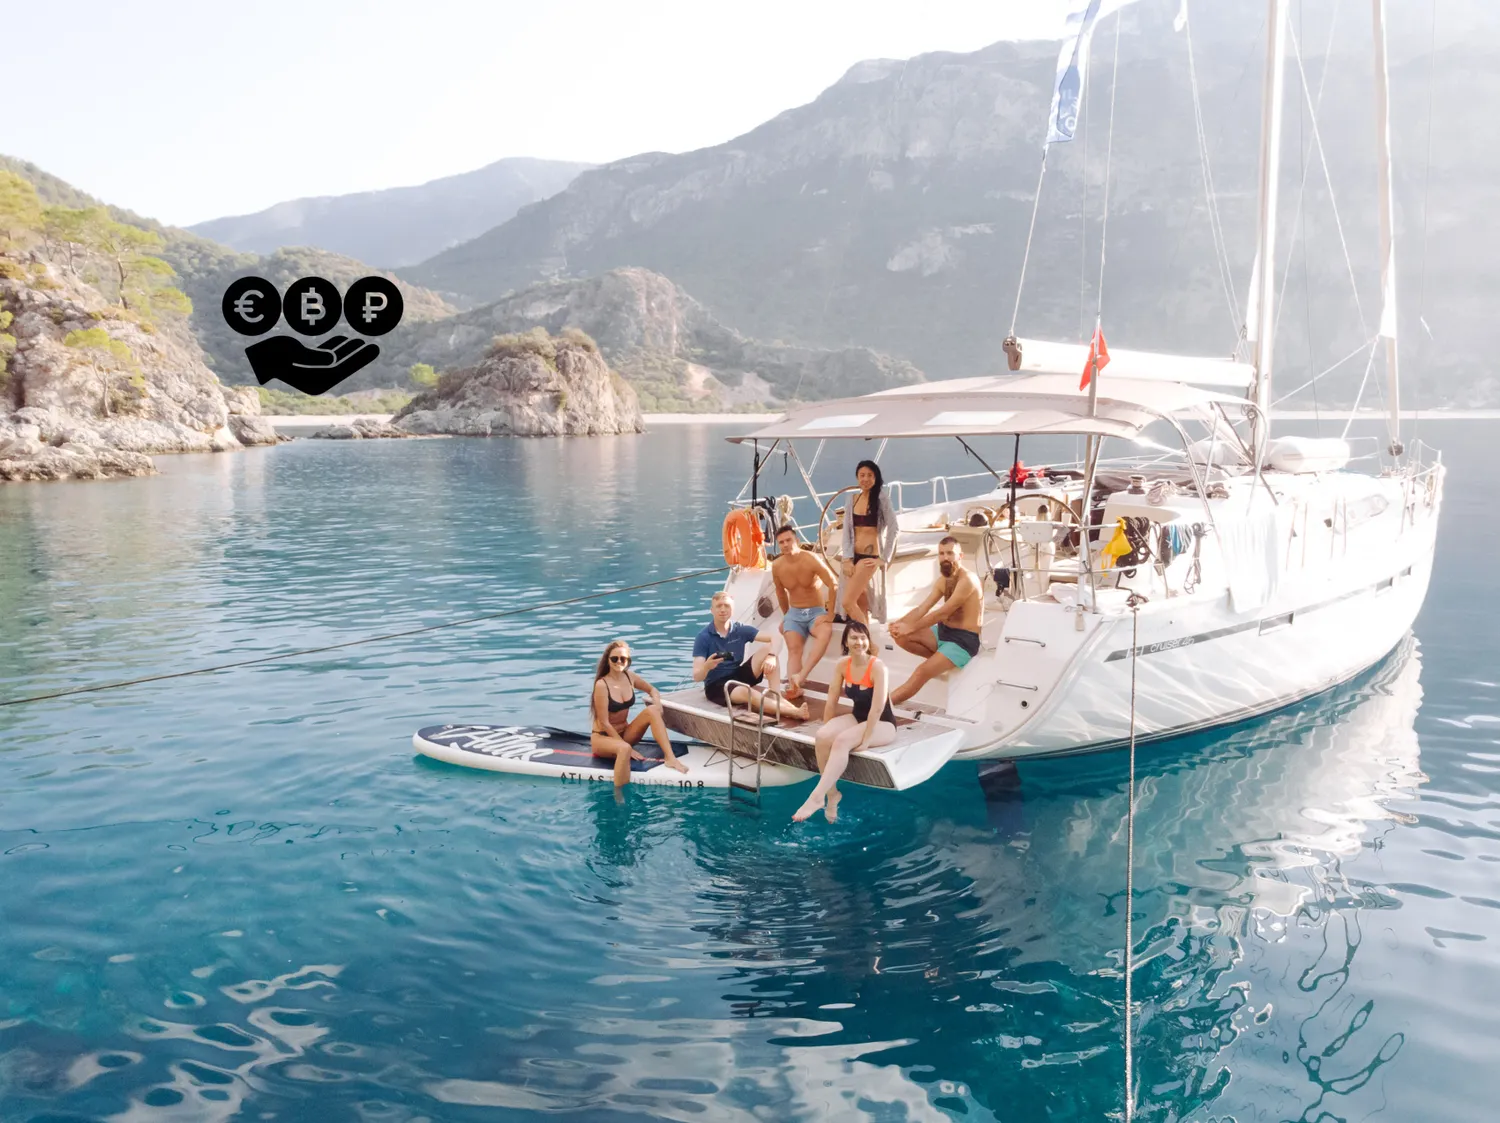
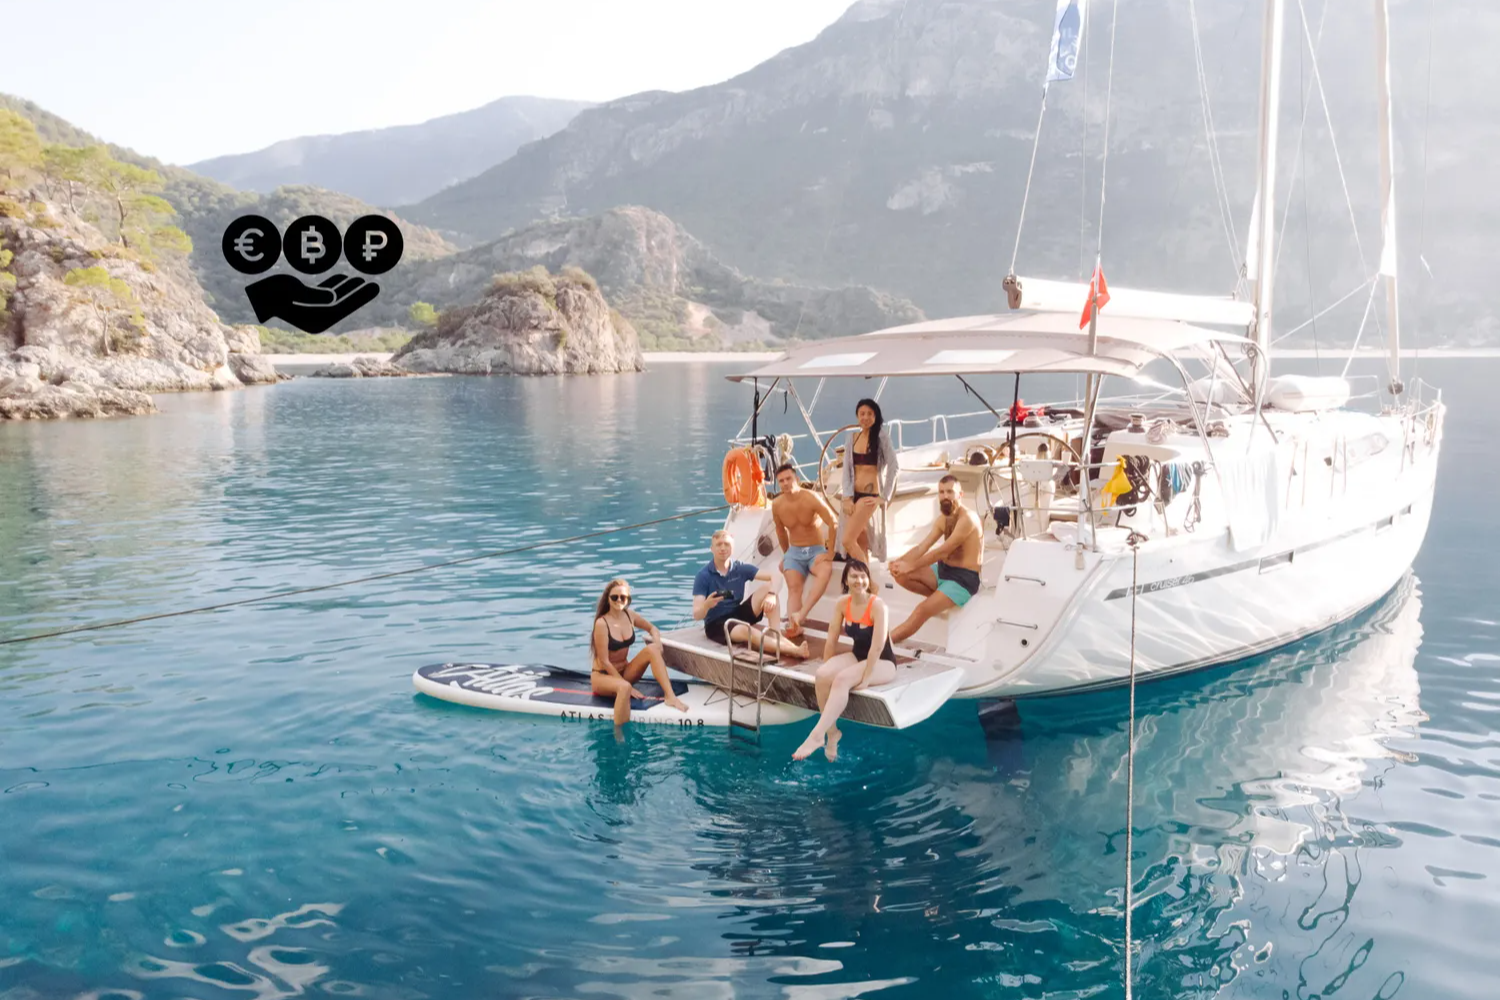
update

diff --git a/src/pages/Item/Item.jsx b/src/pages/Item/Item.jsx
@@ -55,12 +55,12 @@ export default function Item() {
           <h2 className="">{item[0].title}</h2>
 
           <div className="row my-3">
-            <div className="col-md-8">
+            <div className="col-md-6">
               <div className="div-item-img rounded">
-                <img className="item-img" src={item[0].img} alt="item-img" />
+                <img className="item-img img-fluid" src={item[0].img} alt="item-img" />
               </div>
             </div>
-            <div className="col-md-4 bg-light rounded d-flex flex-column justify-content-center align-items-center">
+            <div className="col-md-3 bg-light rounded d-flex flex-column text-center justify-content-center align-items-center">
               <span className="fw-bold">Планируемая дата: </span>
               <p>{item[0].date}</p>
               <span className="fw-bold">Цена: </span>

diff --git a/src/pages/Main/Main.jsx b/src/pages/Main/Main.jsx
@@ -11,7 +11,7 @@ export default function Main() {
 
   return (
     <div className="container marketing mt-2 mb-5 pb-5">
-      <h1 className="pb-4 text-center fw-bold">Авторские туры — новый формат <span style={{ color: "var(--color8)"}}>насыщенных</span> путешествий</h1>
+      <h1 className="pb-4 text-center fw-bold">Авторские туры — новый формат <span style={{ color: "var(--color10)"}}>насыщенных</span> путешествий</h1>
 
       <Slider />
 

diff --git a/src/App.jsx b/src/App.jsx
@@ -1,7 +1,7 @@
 import React from "react";
 import "./styles/App.css";
 import { BrowserRouter } from "react-router-dom";
-import Navbar from "./components/UI/navbar/Navbar";
+import Header from "./components/UI/header/Header";
 import AppRouter from "./components/AppRouter";
 import Footer from "./components/UI/footer/Footer";
 
@@ -9,7 +9,7 @@ export default function App() {
   return (
     <div>
       <BrowserRouter>
-        <Navbar />
+        <Header />
         <AppRouter />
         <Footer />
       </BrowserRouter>

diff --git a/src/components/ServiceItem.jsx b/src/components/ServiceItem.jsx
@@ -8,7 +8,7 @@ export default function ServiceItem({
   return (
     <div className="col-md">
       <div className="card shadow-sm bg-light" style={{ height: "100%" }}>
-        <img src={img} alt="img" className="bd-placeholder-img card-img-top catalog-card-img" style={{ height: "10rem" }} />
+        <img src={img} alt="img" className="bd-placeholder-img card-img-top catalog-card-img img-fluid" />
         <div className="card-body">
           <p className="card-text mb-2">
             <NavLink to={`${id}`}>

diff --git a/src/components/UI/header/Header.jsx b/src/components/UI/header/Header.jsx
@@ -1,0 +1,13 @@
+import React from 'react';
+import Navbar from '../../UI/navbar/Navbar';
+
+export default function Header() {
+
+  return (
+    <div className="container-fluid">
+      <div className="row">
+        <Navbar />
+      </div>
+    </div>
+  )
+}

diff --git a/src/components/UI/navbar/Navbar.css b/src/components/UI/navbar/Navbar.css
@@ -86,11 +86,13 @@
     text-align: center;
     margin: 0;
   }
+
   .navigation-menu li a {
     color: var(--black);
     width: 100%;
     padding: 1.5rem 0;
   }
+
   .navigation-menu li:hover {
     background-color: var(--color6);
   }

diff --git a/src/pages/Item/Item.css b/src/pages/Item/Item.css
@@ -5,8 +5,7 @@
 }
 
 .item-img {
-  height: 18rem;
-  width: 100%;
+  width: 30rem;
   border-radius: 10px;
   transition: 1s;
   display: block;

diff --git a/src/styles/App.css b/src/styles/App.css
@@ -46,7 +46,7 @@
   --color7: #182535;
   --color8: #fbf8f5;
   --color9: #69635c;
-  --color10: #dadcc9;
+  --color10: #bb2649;
 }
 
 * {
